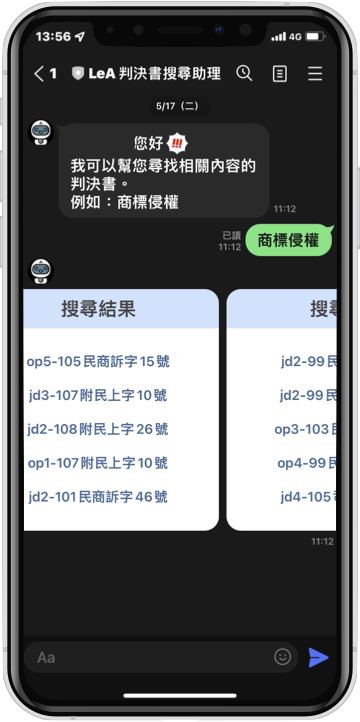
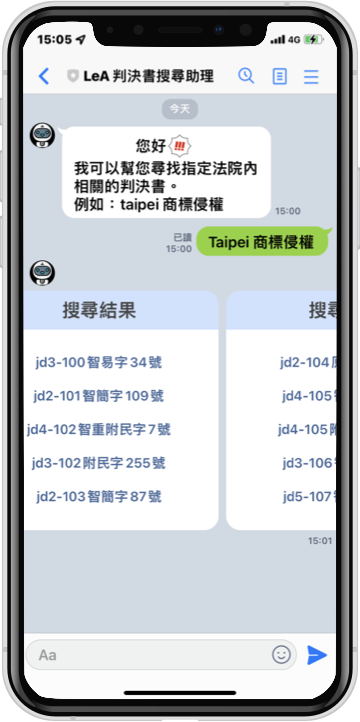
調整參數說明與範例圖片

diff --git a/ReadMe.md b/ReadMe.md
@@ -26,7 +26,14 @@ LeA, 或是 LEgal Assistant 是透過卓騰語言科技的文件搜尋系統的 
 3. 在 `input_str ` 中輸入想查找的詞彙或語句，例如
 	- 輸入查詢詞彙：*商標侵權*
 	- 輸入查詢語句：*請給我關於商標侵權的判決*
-4. 在 `curt` 中指定資料集，預設為 `taipei`，目前可選擇的資料集有 `taipei`, `patron`
+4. 在 `count` 中指定查詢判決書的最大數量，預設為 `15` 筆，上限為 `200` 筆。
+5. 在 `court` 中指定法院，預設為 `taipei`，目前可選擇的法院如下表，將持續增加其他法院。
+
+| 參數   | 說明              |
+| :------: | :--------------: |
+| patron | 智慧財產法院 |
+| taipei   | 臺北地方法院 |
+
 
 ### API 範例程式：
     
@@ -37,7 +44,8 @@ result = post("https://lea.droidtown.co/api", json={
     "username": "LegalTech2022",
     "copytoaster_key": "xG69*bu66!FRj+tCqTw-J8^29aH+Ax",
     "input_str": "請給我關於商標侵權的判決",
-    "curt": "taipei"
+    "count": 15,
+    "court": "taipei"
 })
 if result.status_code == 200:
     # Output
